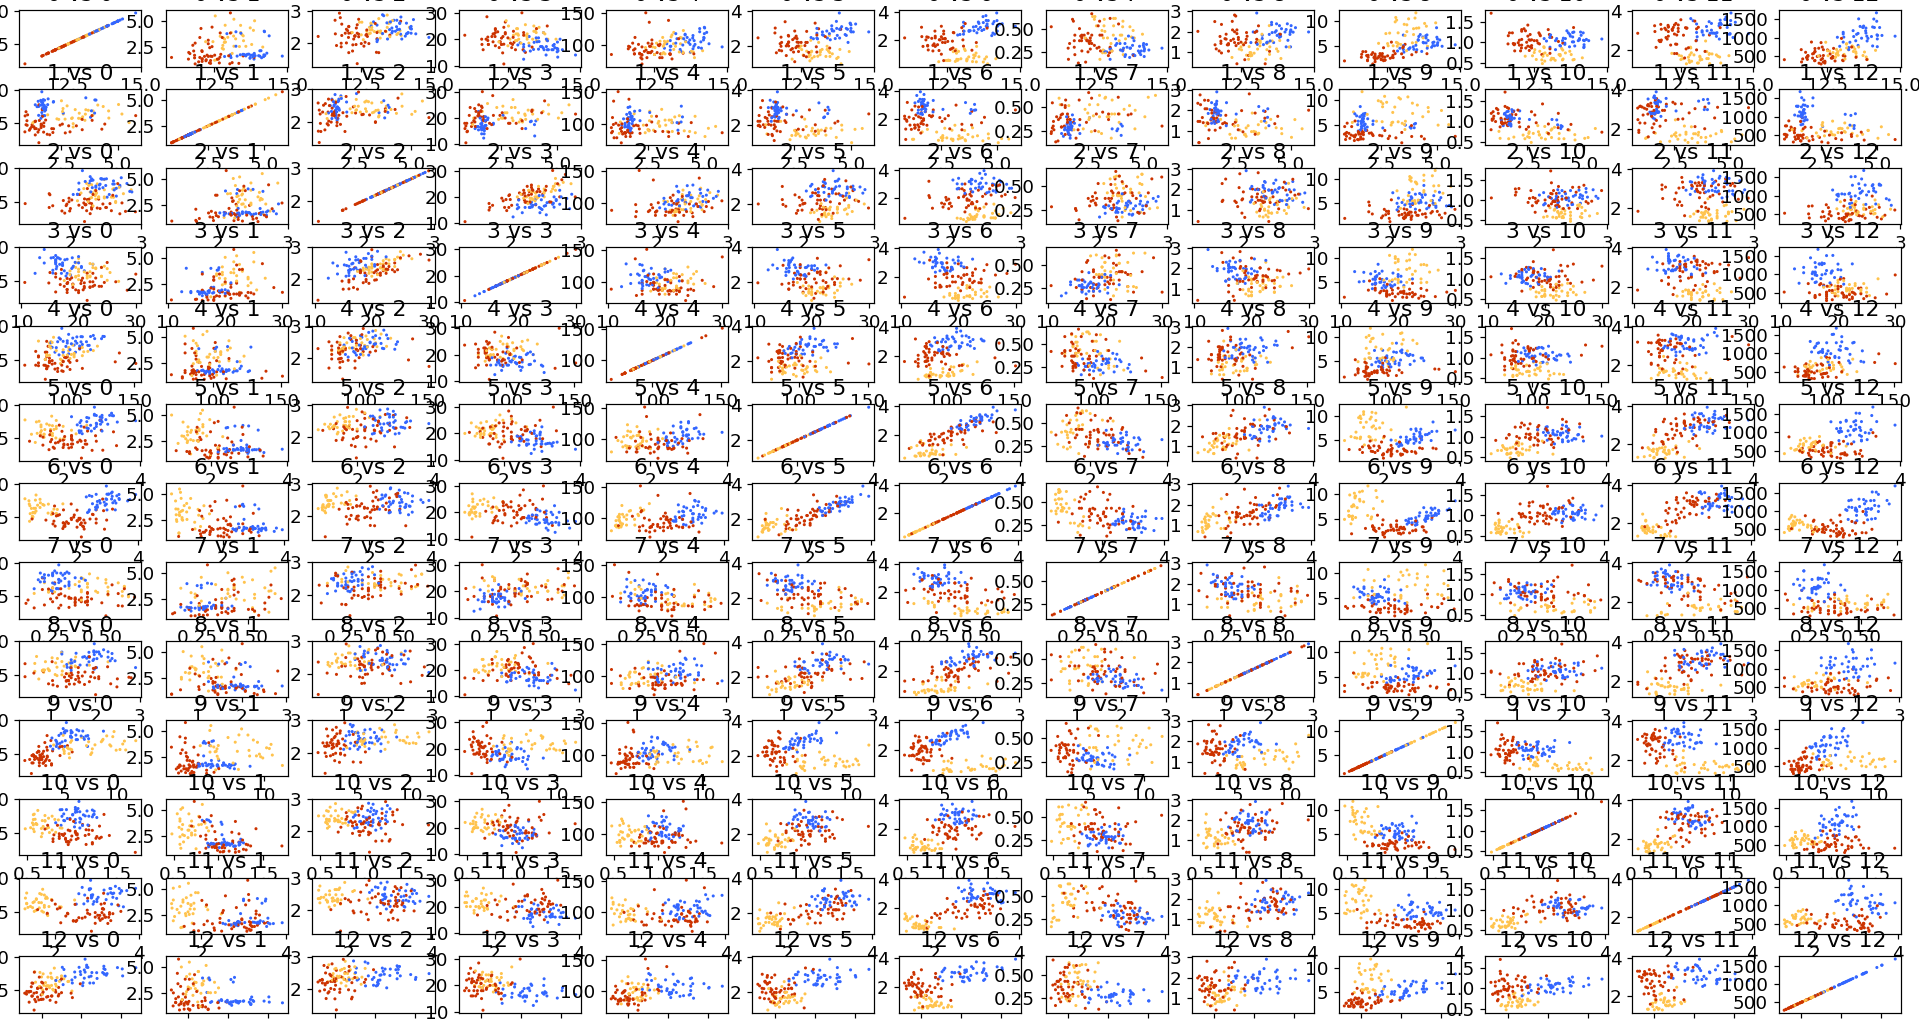
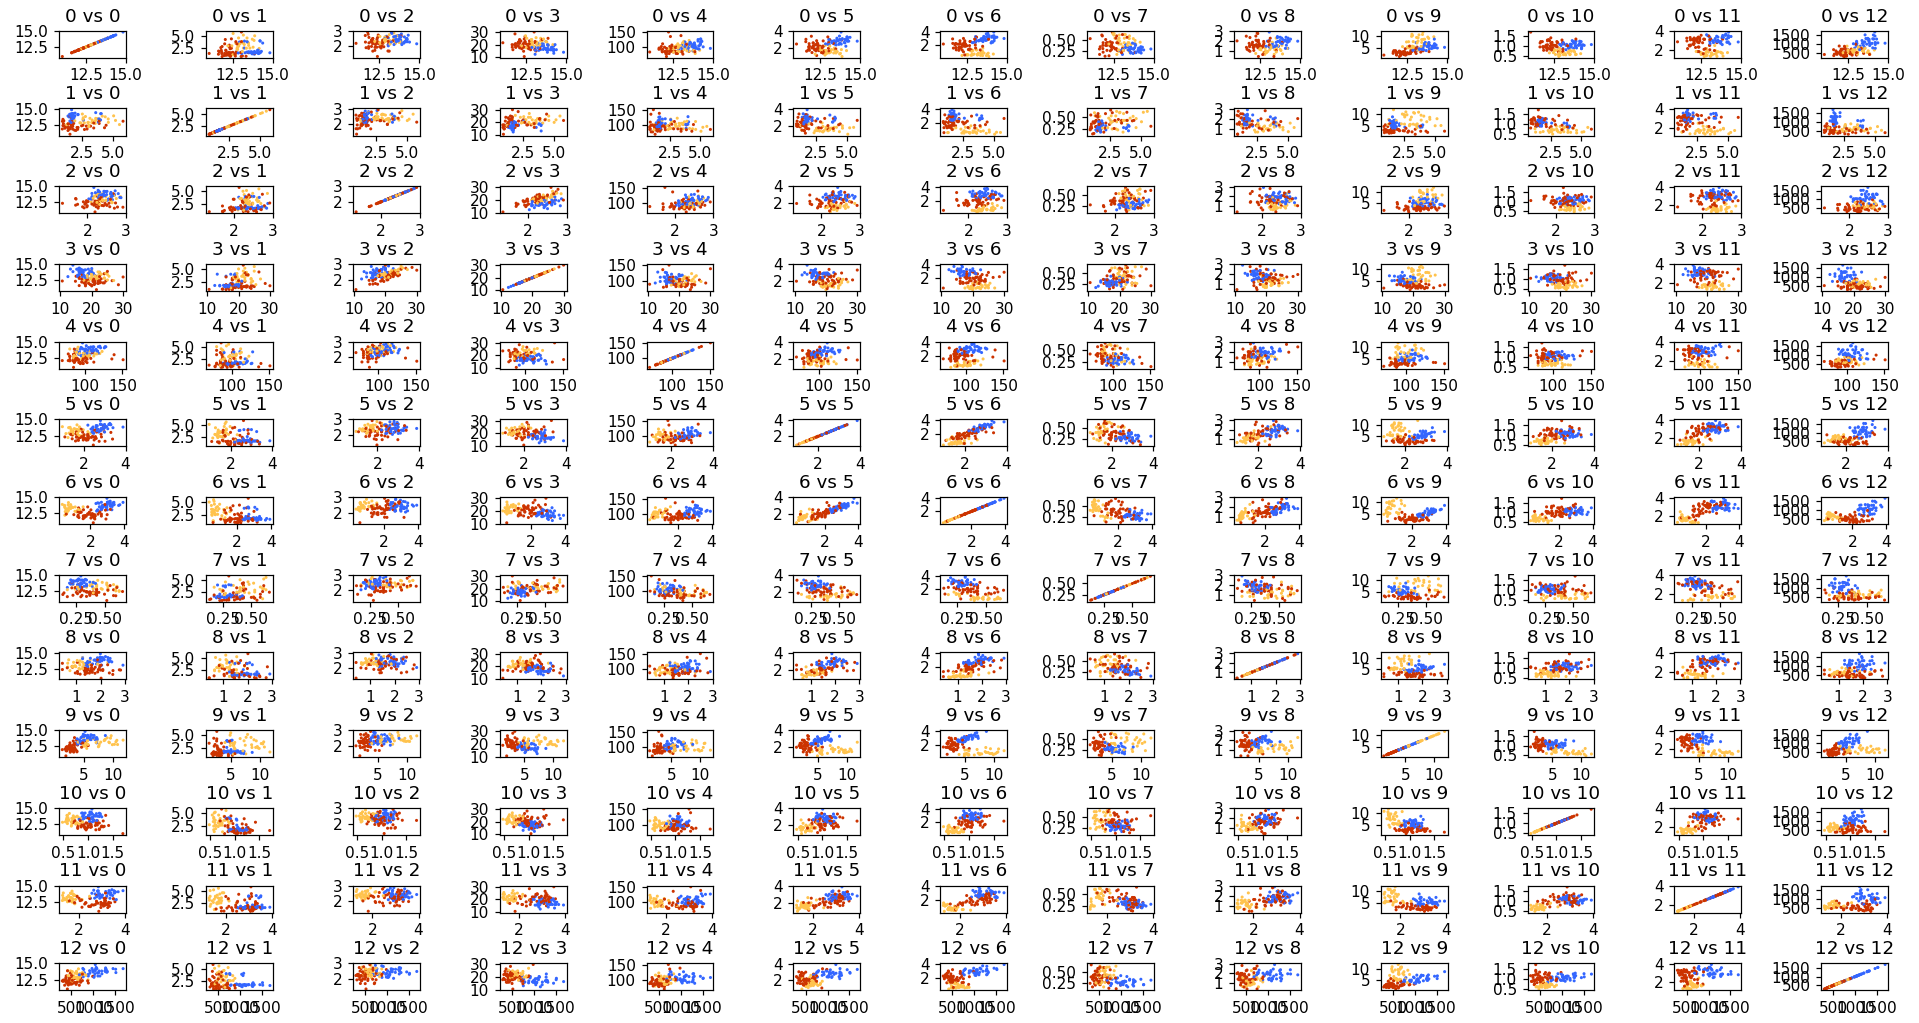
Created new graphs

diff --git a/knn_confusion.py b/knn_confusion.py
@@ -1,9 +1,12 @@
 import numpy as np
 import matplotlib.pyplot as plt
 from utilities import load_data, print_features, print_predictions
-from wine_classifier import knn
+from wine_classifier import knn, calculate_accuracy
 
 train_set, train_labels, test_set, test_labels = load_data()
+plt.rc('figure', figsize=(12, 12), dpi=110)
+
+
 
 def calculate_confusion_matrix(gt_labels, pred_labels):
     confusion = np.zeros((3,3))
@@ -30,11 +33,24 @@ def plot_matrix(matrix, ax=None):
         
     # write your code here
     handle = ax.imshow(matrix,cmap=plt.get_cmap('summer'))
-    plt.colorbar(handle)
     for i in range(matrix.shape[0]):
         for j in range(matrix.shape[1]):
             ax.text(j,i,round(matrix[i,j],3))
-    plt.show()
+    return ax
 
-for i in range(2,8):
-    plot_matrix(calculate_confusion_matrix(test_labels,np.array(knn(train_set,train_labels,test_set,i))))
+fig, ax = plt.subplots(3,3)
+for i in range(0,6):
+    plot_matrix(calculate_confusion_matrix(test_labels,np.array(knn(train_set,train_labels,test_set,i+1))),ax[i//3][i%3])
+    ax[i//3][i%3].set_title("K={},accuracy={}".format(i+1,calculate_accuracy(test_labels,knn(train_set,train_labels,test_set,i+1))))
+    ax[i//3][i%3].set_xticks([0,1,2])
+    ax[i//3][i%3].set_yticks([0,1,2])
+
+plot_matrix(calculate_confusion_matrix(test_labels,np.array(knn(train_set,train_labels,test_set,7))),ax[2][1])
+ax[2][1].set_title("K=7,accuracy={}".format(calculate_accuracy(test_labels,knn(train_set,train_labels,test_set,7))))
+ax[2][1].set_xticks([0,1,2])
+ax[2][1].set_yticks([0,1,2])
+fig.delaxes(ax[2,0])
+fig.delaxes(ax[2,2])
+plt.tight_layout()
+plt.show()
+    

diff --git a/correlation.py b/correlation.py
@@ -1,0 +1,44 @@
+from __future__ import print_function
+
+import numpy as np
+import matplotlib.pyplot as plt
+import scipy.stats as stats 
+from utilities import load_data, print_features, print_predictions
+
+# you may use these colours to produce the scatter plots
+CLASS_1_C = r'#3366ff'
+CLASS_2_C = r'#cc3300'
+CLASS_3_C = r'#ffc34d'
+CLASS_COLOURS = [CLASS_1_C,CLASS_2_C,CLASS_3_C]
+
+plt.rc('figure', figsize=(12, 12), dpi=110)
+plt.rc('font', size=10)
+
+train_set, train_labels, test_set, test_labels = load_data()
+cormat = np.zeros((train_set.shape[1],train_set.shape[1]))
+for i in range(train_set.shape[1]):
+    for j in range(train_set.shape[1]):
+        _,_, r,_,_ = stats.linregress(train_set.transpose()[i,:],train_set.transpose()[j,:])
+        cormat[i][j] = abs(round(r,3))
+#n_features = train_set.shape[1]
+def plot_matrix(matrix, ax=None):
+    """
+    Displays a given matrix as an image.
+    
+    Args:
+        - matrix: the matrix to be displayed        
+        - ax: the matplotlib axis where to overlay the plot. 
+          If you create the figure with `fig, fig_ax = plt.subplots()` simply pass `ax=fig_ax`. 
+          If you do not explicitily create a figure, then pass no extra argument.  
+          In this case the  current axis (i.e. `plt.gca())` will be used        
+    """    
+    if ax is None:
+        ax = plt.gca()
+        
+    # write your code here
+    handle = ax.imshow(matrix,cmap=plt.get_cmap('hot'))
+    plt.colorbar(handle)
+    return ax
+
+plot_matrix(cormat)
+plt.show()

diff --git a/class_correlation.py b/class_correlation.py
@@ -1,0 +1,44 @@
+from __future__ import print_function
+
+import numpy as np
+import matplotlib.pyplot as plt
+import scipy.stats as stats 
+from utilities import load_data, print_features, print_predictions
+
+# you may use these colours to produce the scatter plots
+CLASS_1_C = r'#3366ff'
+CLASS_2_C = r'#cc3300'
+CLASS_3_C = r'#ffc34d'
+CLASS_COLOURS = [CLASS_1_C,CLASS_2_C,CLASS_3_C]
+
+plt.rc('figure', figsize=(12, 12), dpi=110)
+plt.rc('font', size=10)
+
+train_set, train_labels, test_set, test_labels = load_data()
+cormat = np.zeros((2,train_set.shape[1]))
+for j in range(train_set.shape[1]):
+    _,_, r,_,_ = stats.linregress(train_labels,train_set.transpose()[j,:])
+    cormat[0,j] = abs(round(r,3))
+    cormat[1,j] = cormat[0,j]
+#n_features = train_set.shape[1]
+def plot_matrix(matrix, ax=None):
+    """
+    Displays a given matrix as an image.
+    
+    Args:
+        - matrix: the matrix to be displayed        
+        - ax: the matplotlib axis where to overlay the plot. 
+          If you create the figure with `fig, fig_ax = plt.subplots()` simply pass `ax=fig_ax`. 
+          If you do not explicitily create a figure, then pass no extra argument.  
+          In this case the  current axis (i.e. `plt.gca())` will be used        
+    """    
+    if ax is None:
+        ax = plt.gca()
+        
+    # write your code here
+    handle = ax.imshow(matrix,cmap=plt.get_cmap('hot'))
+    plt.colorbar(handle)
+    return ax
+
+plot_matrix(cormat)
+plt.show()

diff --git a/feature_selector_manual.py b/feature_selector_manual.py
@@ -10,20 +10,21 @@ CLASS_2_C = r'#cc3300'
 CLASS_3_C = r'#ffc34d'
 CLASS_COLOURS = [CLASS_1_C,CLASS_2_C,CLASS_3_C]
 
-plt.rc('figure', figsize=(12, 8), dpi=110)
-plt.rc('font', size=12)
+plt.rc('figure', figsize=(12, 4), dpi=110)
+plt.rc('font', size=10)
 
 train_set, train_labels, test_set, test_labels = load_data()
 
-n_features = train_set.shape[1]
-fig, ax = plt.subplots(n_features, n_features)
-plt.subplots_adjust(left=0.01, right=0.99, top=0.99, bottom=0.01, wspace=0.2, hspace=0.4)
+#n_features = train_set.shape[1]
+fig, ax = plt.subplots(4,4)
+#plt.subplots_adjust(left=0.01, right=0.99, top=0.99, bottom=0.01, wspace=0.4, hspace=1.2)
 int_labels = list(map(lambda x: int(x),train_labels))
 colour_list = list(map(lambda x : CLASS_COLOURS[x-1], int_labels))
+for i in range(train_set.shape[1]):
+        ax[i//4][i%4].scatter(train_set[:,6],train_set[:,i], color=colour_list,s=10)
+        ax[i//4][i%4].set_title("{} vs {}".format(6,i))
+       
 
-for i in range(n_features):
-    for j in range(n_features):
-        ax[i][j].scatter(train_set[:,i],train_set[:,j], color=colour_list,s=1)
-        ax[i][j].set_title("{} vs {}".format(i,j))
 
+plt.tight_layout()
 plt.show()

diff --git a/wine_classifier.py b/wine_classifier.py
@@ -133,7 +133,7 @@ def feature_selection(train_set, train_labels, **kwargs):
     # the function
 
             
-    return [6,9]
+    return [0,6]
 
 #Helper function to get features out
 def feature_extract(train_set, test_set, features):

diff --git a/knn_all.py b/knn_all.py
@@ -49,7 +49,7 @@ def plot_matrix(matrix, ax=None):
     plt.colorbar(handle)
     plt.show()
 
-
+plt.subplots_adjust(0.125,0.1,0.9,0.9,0.2)
 accuracy_mat = np.zeros((13,13))
 for i in range(13):
     for j in range(13):
